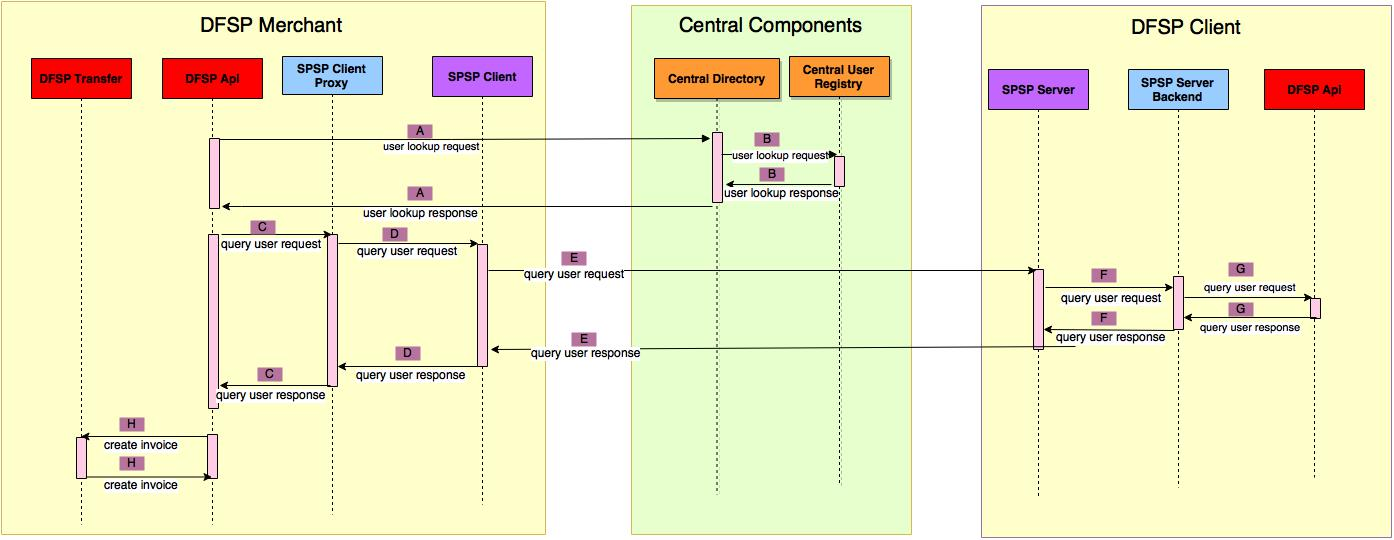
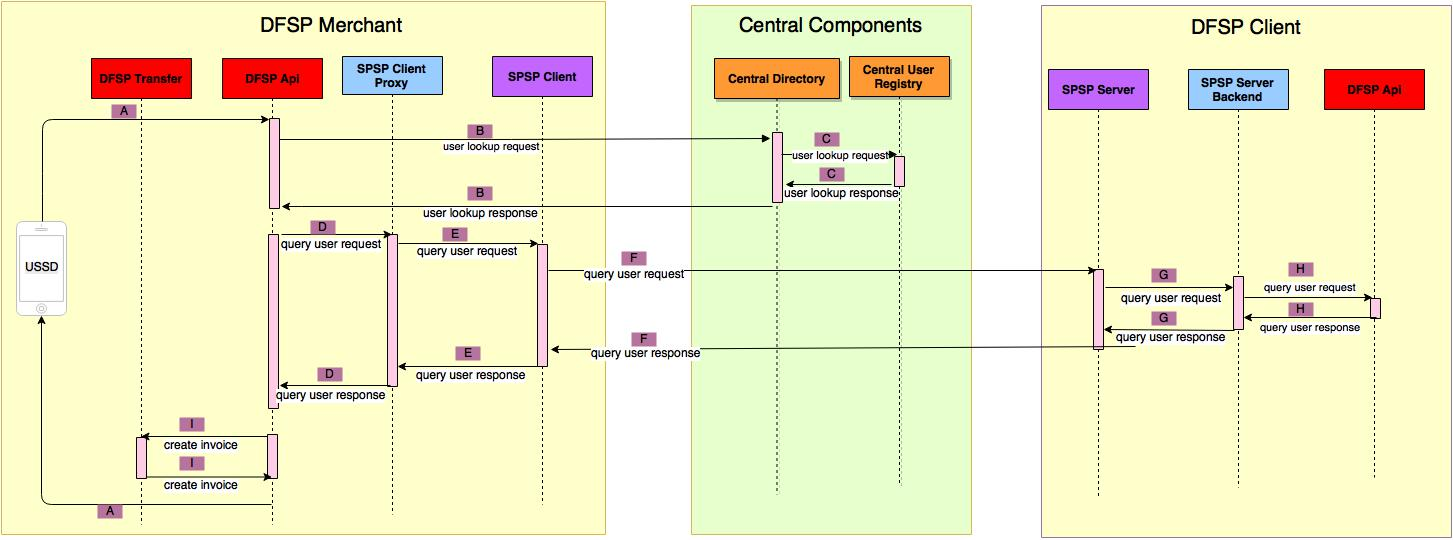
Updates to Create Invoice based on feedback from SG

diff --git a/DFSP/PendingTransactions/PendingTransactions.md b/DFSP/PendingTransactions/PendingTransactions.md
@@ -25,47 +25,15 @@ In the notes below I will refer to '**dfsp1**' as client DFSP (paying the invoic
 
 
 
-## I. LOOKUP  RECEIVER ##
+## I. CREATE INVOICE ##
 
-![](./QueryReceiver.jpg)
+![](./CreateInvoice.jpg)
       
 ####  A. User Lookup Request from [ DFSP API ](https://github.com/LevelOneProject/dfsp-api) to [ Central Directory ](https://github.com/LevelOneProject/central-directory) ###
 
 **Endpoint**
 
 DFSP API calls [GET /user] endpoint in Central Directory
-
-
-*Request:*
-
-	POST http://dfsp1.spsp-client/v1/setup
-
-	{
-  		"receiver": "http://dfsp2.spsp-server/invoice/12345",
-  		"sourceAccount": "dfsp1.alice.account",
-  		"sourceIdentifier": "9809890190934023"
-	}
-
-
-*Response:*
-
-	201 Created
-
-	{
-		"id": "b9c4ceba-51e4-4a80-b1a7-2972383e98af",
-		"name":"Bob Dilan",
-		"destinationAccount": "dfsp2.bob_dylan.account",
-	  	"destinationAmount": "10.40",
-	  	"sourceAmount": "9.00",
-	  	"sourceAccount": "dfsp1.alice.account",
-	  	"expiresAt": "2016-08-16T12:00:00Z",
-	  	"data": {
-		    "senderIdentifier": "9809890190934023"
-	  	},
-	  	"additionalHeaders": "asdf98zxcvlknannasdpfi09qwoijasdfk09xcv009as7zxcv",
-	  	"execution_condition": "cc:0:3:wey2IMPk-3MsBpbOcObIbtgIMs0f7uBMGwebg1qUeyw:32",
-	  	"cancelation_condition": "dd:0:5:eey2IMPk-3MsBpbOcObIbtgIMs0f7uBMGwebg1qUeyw:32"
-	}
 
 
 ####  B. User Lookup Request from  [ Central Directory ](https://github.com/LevelOneProject/central-directory) to [ Central Registry ](https://github.com/LevelOneProject/central-end-user-registry)###
@@ -75,92 +43,40 @@ DFSP API calls [GET /user] endpoint in Central Directory
 Central Directory [GET /user] endpoint in Central End User Registry
 
 
-*Request:*
-
-	POST http://dfsp1.spsp-client/v1/setup
-
-	{
-  		"receiver": "http://dfsp2.spsp-server/invoice/12345",
-  		"sourceAccount": "dfsp1.alice.account",
-  		"sourceIdentifier": "9809890190934023"
-	}
-
-
-*Response:*
-
-	201 Created
-
-	{
-		"id": "b9c4ceba-51e4-4a80-b1a7-2972383e98af",
-		"name":"Bob Dilan",
-		"destinationAccount": "dfsp2.bob_dylan.account",
-	  	"destinationAmount": "10.40",
-	  	"sourceAmount": "9.00",
-	  	"sourceAccount": "dfsp1.alice.account",
-	  	"expiresAt": "2016-08-16T12:00:00Z",
-	  	"data": {
-		    "senderIdentifier": "9809890190934023"
-	  	},
-	  	"additionalHeaders": "asdf98zxcvlknannasdpfi09qwoijasdfk09xcv009as7zxcv",
-	  	"execution_condition": "cc:0:3:wey2IMPk-3MsBpbOcObIbtgIMs0f7uBMGwebg1qUeyw:32",
-	  	"cancelation_condition": "dd:0:5:eey2IMPk-3MsBpbOcObIbtgIMs0f7uBMGwebg1qUeyw:32"
-	}
-
 ####  C. Query Receiver Request from  [ DFSP API ](https://github.com/LevelOneProject/dfsp-api) to [ SPSP CLIENT PROXY ](https://github.com/LevelOneProject/interop-spsp-client-proxy) ###
 
 **Endpoint**
 
-DFSP API calls [GET /query] endpoint in SPSP Client Proxy
+DFSP API calls [GET /spsp/client/v1/query] endpoint in SPSP Client Proxy
 
 
 *Request:*
 
-	POST http://dfsp1.spsp-client/v1/setup
-
-	{
-  		"receiver": "http://dfsp2.spsp-server/invoice/12345",
-  		"sourceAccount": "dfsp1.alice.account",
-  		"sourceIdentifier": "9809890190934023"
-	}
-
+	GET http://dfsp1.spsp-client-proxy/spsp.client/v1/query?receiver=http://dfsp2:3043/v1/receivers/78956562
+	
 
 *Response:*
-
-	201 Created
-
+	200 OK
 	{
-		"id": "b9c4ceba-51e4-4a80-b1a7-2972383e98af",
-		"name":"Bob Dilan",
-		"destinationAccount": "dfsp2.bob_dylan.account",
-	  	"destinationAmount": "10.40",
-	  	"sourceAmount": "9.00",
-	  	"sourceAccount": "dfsp1.alice.account",
-	  	"expiresAt": "2016-08-16T12:00:00Z",
-	  	"data": {
-		    "senderIdentifier": "9809890190934023"
-	  	},
-	  	"additionalHeaders": "asdf98zxcvlknannasdpfi09qwoijasdfk09xcv009as7zxcv",
-	  	"execution_condition": "cc:0:3:wey2IMPk-3MsBpbOcObIbtgIMs0f7uBMGwebg1qUeyw:32",
-	  	"cancelation_condition": "dd:0:5:eey2IMPk-3MsBpbOcObIbtgIMs0f7uBMGwebg1qUeyw:32"
+  		"type": "payee",
+  		"name": "bob",
+  		"account": "levelone.dfsp2.bob",
+  		"currencyCode": "USD",
+  		"currencySymbol": "$",
+  		"imageUrl": "https://red.ilpdemo.org/api/receivers/bob/profile_pic.jpg"
 	}
+
 
 ####  D. Query Receiver Request from  [ SPSP CLIENT PROXY ](https://github.com/LevelOneProject/interop-spsp-client-proxy) to [ SPSP CLIENT ](https://github.com/LevelOneProject/ilp-spsp-client-rest) ###
 
 **Endpoint**
 
-SPSP Client Proxy calls [GET /query] endpoint in SPSP Client
+SPSP Client Proxy calls [GET /v1/query] endpoint in SPSP Client
 
 
 *Request:*
 
-	POST http://dfsp1.spsp-client/v1/setup
-
-	{
-  		"receiver": "http://dfsp2.spsp-server/invoice/12345",
-  		"sourceAccount": "dfsp1.alice.account",
-  		"sourceIdentifier": "9809890190934023"
-	}
-
+	GET http://dfsp1.spsp-client/v1/query/receiver=http://dfsp2:3043/v1/receivers/78956562
 
 *Response:*
 
